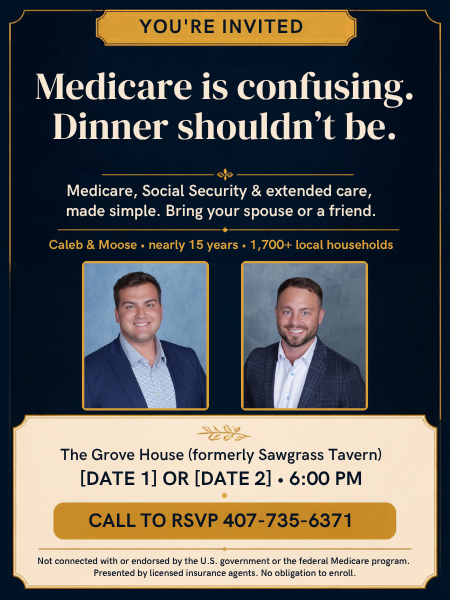
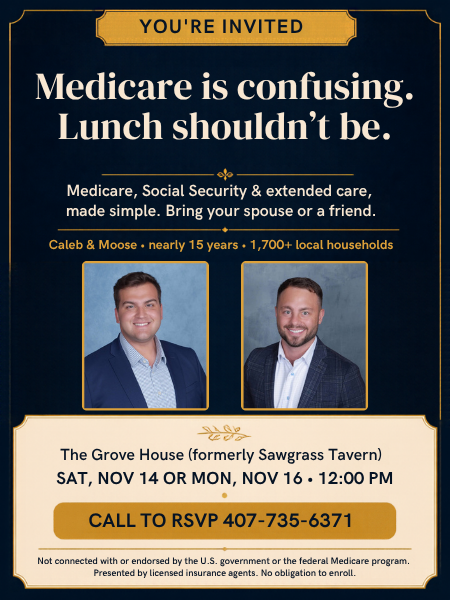
Switch Grove House to Nov 14/16 lunch: ads, ad plan, follow-up with real slots
Claude-Session: https://claude.ai/code/session_0165mYstgSZ8ZegHVh1S9guG

Changed region(s): [[0.1244, 0.18, 0.8711, 0.24], [0.1244, 0.78, 0.8711, 0.81]]

diff --git a/seminars/grove-house/meta-ads.md b/seminars/grove-house/meta-ads.md
@@ -1,8 +1,8 @@
 # Grove House: Meta ad campaign (test run)
 
-**Workshop:** Medicare, Social Security, & Extended Care Workshop. Free dinner for you + a guest.
+**Workshop:** Medicare, Social Security, & Extended Care Workshop. Free lunch for you + a guest.
 **Venue:** The Grove House (formerly Sawgrass Tavern), 810 Marilee Pl, The Villages, FL 32163
-**Dates:** `[DATE 1]` at 6:00 PM or `[DATE 2]` at 6:00 PM (TBD)
+**Dates:** Sat, Nov 14 or Mon, Nov 16, 2026 · 12:00 PM lunch
 **RSVP:** Call 407-735-6371
 
 ---
@@ -14,54 +14,54 @@
 3. **Ad set A: Calls.** Conversion location **Calls**, number 407-735-6371.
    - Location: **15 miles around 810 Marilee Pl** (covers The Villages, Lady Lake, Fruitland Park, Wildwood, Oxford, Summerfield and most of Leesburg). That 55+ footprint is your age filter, since Meta locks age to 18–65+ for this category.
    - Audience: broad / Advantage+. Placements: Advantage+.
-   - Budget: **$30/day**, start 12 days before `[DATE 1]`, end 3 PM on `[DATE 2]`. Bump to **$40/day** for the last 4 days.
+   - Budget: **$30/day** Tue 11/3 – Tue 11/10, then **$40/day** Wed 11/11 – Sun 11/15 for the final push. End **9 AM Mon 11/16**.
 4. **Ad set B (optional test): Instant form.** Same location and budget split ($15/$15 with A).
-   - Form fields: First name, Phone. Custom question: *"Which night works best?"* → `[DATE 1]` / `[DATE 2]`. (Age questions aren't allowed in this category.)
+   - Form fields: First name, Phone. Custom question: *"Which day works best?"* → Sat, Nov 14 / Mon, Nov 16. (Age questions aren't allowed in this category.)
    - Thank-you screen: "You're on the list! We'll text to confirm. Questions? Call 407-735-6371."
 5. Add the two image ads below (and the video once it exists) to each ad set. Name them `grovehouse_<angle>_<format>`.
-6. **Planned spend:** ~$390 over 12 days (≈ half a postcard drop).
+6. **Planned spend:** ~$440 over 13 days (≈ a postcard drop). **Launch: Tue, Nov 3** (page must be live and linked by Mon, Nov 2).
 
 ---
 
-## Ad 1: "Medicare is confusing. Dinner shouldn't be."  ·  `grovehouse_confusing_image`
+## Ad 1: "Medicare is confusing. Lunch shouldn't be."  ·  `grovehouse_confusing_image`
 
 Canva: [Medicare is confusing ad](https://www.canva.com/d/RqKl9wIq5lYaUCs) · preview: `ad-confusing-preview.png`
 
 **Primary text**
-> Medicare is confusing. Dinner shouldn't be. 🍽
+> Medicare is confusing. Lunch shouldn't be. 🍽
 >
-> Join Caleb & Moose for a relaxed evening at The Grove House. Over dinner we'll make Medicare, Social Security and extended care simple: when to sign up, how the options really differ, and what to watch out for. Plain English, no pressure.
+> Join Caleb & Moose for a relaxed lunch at The Grove House. Over lunch we'll make Medicare, Social Security and extended care simple: when to sign up, how the options really differ, and what to watch out for. Plain English, no pressure.
 >
-> 🍽 Complimentary dinner for you + a guest
-> 🕕 [DATE 1] or [DATE 2], 6:00 PM
+> 🍽 Complimentary lunch for you + a guest
+> 🕛 Sat, Nov 14 or Mon, Nov 16 · 12:00 PM
 > 📞 Seating is limited. Call 407-735-6371 to RSVP
 >
 > Not connected with or endorsed by the U.S. government or the federal Medicare program. Presented by licensed insurance agents. No obligation to enroll.
 
-**Headline:** Medicare, Made Simple Over Dinner
-**Description:** The Grove House · 6 PM
+**Headline:** Medicare, Made Simple Over Lunch
+**Description:** Nov 14 or 16 · Noon
 **CTA:** Call Now (ad set A) / Sign Up (ad set B)
 
 ---
 
-## Ad 2: "Dinner's on us."  ·  `grovehouse_dinner_image`
+## Ad 2: "Lunch is on us."  ·  `grovehouse_lunch_image`
 
-Canva: [Dinner's on us ad](https://www.canva.com/d/xr3HqOG3QmUZWY9) · preview: `ad-dinner-preview.png`
+Canva: [Lunch is on us ad](https://www.canva.com/d/xr3HqOG3QmUZWY9) · preview: `ad-lunch-preview.png`
 
 **Primary text**
-> Dinner's on us. 🍽
+> Lunch is on us. 🍽
 >
-> We're Caleb & Moose, your local licensed agents (nearly 15 years, 1,700+ households in our community). A couple of times a season we host a relaxed evening at The Grove House to make Medicare, Social Security and extended care simple.
+> We're Caleb & Moose, your local licensed agents (nearly 15 years, 1,700+ households in our community). A couple of times a season we host a relaxed lunch at The Grove House to make Medicare, Social Security and extended care simple.
 >
 > Good food, honest answers, zero obligation. Bring your spouse or a friend.
 >
-> 🕕 [DATE 1] or [DATE 2], 6:00 PM
+> 🕛 Sat, Nov 14 or Mon, Nov 16 · 12:00 PM
 > 📞 Seats go fast. Call 407-735-6371
 >
 > Not connected with or endorsed by the U.S. government or the federal Medicare program. Presented by licensed insurance agents. No obligation to enroll.
 
-**Headline:** Free Dinner + Medicare Made Simple
-**Description:** The Grove House · 6 PM
+**Headline:** Free Lunch + Medicare Made Simple
+**Description:** Nov 14 or 16 · Noon
 **CTA:** Call Now / Sign Up
 
 The two images share one layout and differ only in the headline, so the results show which hook works better.
@@ -70,7 +70,7 @@ The two images share one layout and differ only in the headline, so the results 
 
 ## Creative briefs
 
-**Images (4:5 / 1080×1350):** both built in Canva with Caleb & Moose's headshots, venue, `[DATE 1]` / `[DATE 2]` · 6 PM and "CALL TO RSVP 407-735-6371". Swap the dates in Canva before launch.
+**Images (4:5 / 1080×1350):** both built in Canva with Caleb & Moose's headshots, venue, "Sat, Nov 14 or Mon, Nov 16 · 12:00 PM" and "CALL TO RSVP 407-735-6371". For the next seminar, copy and edit the date line.
 
 Dropped on 2026-10-26: the "sign-up timeline" ad (made it look fine to sign up late) and the "Advantage vs. Supplement" comparison (too much to take in, not enough of a hook). The designs are still in the Canva folder.
 
@@ -79,11 +79,11 @@ Dropped on 2026-10-26: the "sign-up timeline" ad (made it look fine to sign up l
 Script:
 > **Caleb:** "Hi, I'm Caleb, and this is Moose."
 > **Moose:** "Medicare doesn't have to be confusing."
-> **Caleb:** "Join us for a free dinner workshop at The Grove House. We'll cover when to sign up, Advantage versus Supplement, and Social Security timing."
-> **Moose:** "Dinner's on us, so bring your spouse or a friend."
+> **Caleb:** "Join us for a free lunch workshop at The Grove House. We'll cover when to sign up, Advantage versus Supplement, and Social Security timing."
+> **Moose:** "Lunch is on us, so bring your spouse or a friend."
 > **Both:** "Call 407-735-6371 to save your seats. See you there!"
 
-On-screen text to add in editing: "FREE DINNER WORKSHOP" (first 3s), venue + `[DATE 1]` / `[DATE 2]` · 6 PM (middle), "CALL 407-735-6371" (last 5s), disclaimer (small, last 3s).
+On-screen text to add in editing: "FREE LUNCH WORKSHOP" (first 3s), venue + "Sat 11/14 or Mon 11/16 · Noon" (middle), "CALL 407-735-6371" (last 5s), disclaimer (small, last 3s).
 
 Filming checklist:
 - [ ] Phone held **vertical**, at eye level (stack books or use a $15 tripod)
@@ -105,5 +105,5 @@ October 2026 Grove House postcards (actuals, also in the [Seminar Tracker](https
 - $693.70 for 1,008 cards → 9 RSVPs → 8 attended → 7 appointments.
 - **$77 per RSVP, $99 per appointment** (before the meal). That's the bar Meta has to beat.
 - The room converts: 87.5% of attendees booked. The constraint is getting more people in the door, which is what Meta is for.
-- On a ~$390 budget, Meta beats postcards at **6+ RSVPs**. Check on day 4: on pace for that, keep going; on pace for under 3, swap the weakest angle.
+- On the ~$440 budget, Meta beats postcards at **6+ RSVPs**. Check on day 4: on pace for that, keep going; on pace for under 3, swap the weakest angle.
 - Best test: run Meta **alongside** the next postcard drop and ask every caller "How did you hear about us?" (it's in the RSVP script).

diff --git a/seminars/grove-house/followup.md b/seminars/grove-house/followup.md
@@ -1,66 +1,76 @@
-# Grove House: Follow-up (test run)
+# Grove House lunch: Follow-up
+
+**Workshop:** Sat, Nov 14 or Mon, Nov 16, 2026 · 12:00 PM lunch · The Grove House, 810 Marilee Pl, The Villages (formerly Sawgrass Tavern) · lunch for you + a guest
 
 **Timeline**
 | When | Touch | Channel |
 |---|---|---|
 | On RSVP call | Script below + "how did you hear about us?" | Phone |
 | Right after call | Confirmation | Text |
-| T-3 days | Reminder | Text |
-| T-0 morning | "Saving your seats tonight" | Text |
-| T+1 | Attended → book a review / No-show → re-invite | Text (+ email draft if available) |
-| T+7 | Nudge to attendees who haven't booked | Text |
+| Wed 11/11 (Sat group) · Fri 11/13 (Mon group) | 3-day reminder | Text |
+| Morning of (by 9 AM) | "Saving your seats at noon" | Text |
+| Mon 11/16 (Sat group) · Tue 11/17 (Mon group) | Attended → book a review / No-show → re-invite | Text (+ email draft if available) |
+| Fri 11/20 – Mon 11/23 | Nudge to attendees who haven't booked | Text |
+
+Consultation slots below were open on Caleb's Google Calendar on 2026-10-26. Re-check before sending; Moose's calendar isn't connected. Thanksgiving is Thu 11/26, so book reviews before then.
 
 ---
 
 ## 1. RSVP call script (Google Voice 407-735-6371)
 
-> "Hi, thanks for calling about the dinner workshop! This is Caleb [or Moose]. Who do I have the pleasure of speaking with?
+> "Hi, thanks for calling about the lunch workshop! This is Caleb [or Moose]. Who do I have the pleasure of speaking with?
 >
-> Great, [Name]. We've got two nights at The Grove House: [DATE 1] or [DATE 2], both at 6. Which works better?
+> Great, [Name]. We've got two lunches at The Grove House: Saturday, November 14th or Monday, November 16th, both at noon. Which works better?
 >
-> Will anyone be joining you? *(dinner covers you + one guest)*
+> Will anyone be joining you? *(lunch covers you + one guest)*
 >
 > Any dietary needs we should know about?
 >
-> Quick one so we tailor the night: are you coming up on 65, or already on Medicare?
+> Quick one so we tailor the afternoon: are you coming up on 65, or already on Medicare?
 >
 > And how did you hear about us: the postcard, Facebook, or a friend?
 >
-> Is this the best number to text you a reminder? Perfect. You're all set for [night] at 6. We'll save your seats. See you there!"
+> Is this the best number to text you a reminder? Perfect. You're all set for [Saturday / Monday] at noon. We'll save your seats. See you there!"
 
-Log each call: name, night, # guests, T65 vs. on Medicare, **source (postcard / Facebook / friend)**, phone.
+Log each call: name, day, # guests, T65 vs. on Medicare, **source (postcard / Facebook / friend)**, phone.
 
 ---
 
 ## 2. Confirmation text (right after the call)
-> Hi [First]! You're confirmed for our free dinner workshop at The Grove House, [DAY DATE] at 6 PM (810 Marilee Pl, formerly Sawgrass Tavern). Reply C to confirm or call if plans change. – Caleb & Moose
+> Hi [First]! You're confirmed for our free lunch workshop at The Grove House, [Sat, Nov 14 / Mon, Nov 16] at 12:00 PM (810 Marilee Pl, formerly Sawgrass Tavern). Reply C to confirm or call if plans change. – Caleb & Moose
 
 ## 3. Reminder texts
-**T-3:**
-> Hi [First], looking forward to seeing you [DAY] at 6 at The Grove House! Bring any Medicare or Social Security questions. Dinner's on us. – Caleb & Moose
+**3 days before (Wed 11/11 for Saturday, Fri 11/13 for Monday):**
+> Hi [First], looking forward to seeing you [Saturday / Monday] at noon at The Grove House! Bring any Medicare or Social Security questions. Lunch is on us. – Caleb & Moose
 
-**T-0 morning:**
-> Good morning [First]! We're saving your seats tonight at 6 at The Grove House. See you soon! – Caleb & Moose
+**Morning of (by 9 AM):**
+> Good morning [First]! We're saving your seats today at noon at The Grove House. See you soon! – Caleb & Moose
 
-## 4. T+1: Attended
-> Hi [First], thank you for joining us last night! Remember: your Medicare window opens 3 months before your 65th-birthday month. Want a free 30-min personal review? I have [Tue 10 AM] or [Thu 2 PM]. Which works? – Caleb
+## 4. Day after: Attended
+**Saturday group (send Mon 11/16):**
+> Hi [First], thank you for joining us for lunch Saturday! Remember: your Medicare window opens 3 months before your 65th-birthday month. Want a free 30-min personal review? I have Tue 11/17 at 10 AM or Wed 11/18 at 2 PM. Which works? – Caleb
 
-## 5. T+1: No-show
-> Hi [First], we missed you last night. Hope all's well! No worries at all. Want to grab a seat at our next dinner, or just sit down one-on-one for 30 min? Happy to do either. – Caleb & Moose
+**Monday group (send Tue 11/17):**
+> Hi [First], thank you for joining us for lunch yesterday! Remember: your Medicare window opens 3 months before your 65th-birthday month. Want a free 30-min personal review? I have Thu 11/19 at 10 AM or Fri 11/20 at 2 PM. Which works? – Caleb
 
-## 6. T+7: Nudge (attended, not booked)
-> Hi [First], Caleb here. Following up from the Grove House dinner. Most folks find a quick personal review answers the "which plan fits me" question in 30 min. I have [DAY TIME] open. Want it?
+## 5. Day after: No-show
+> Hi [First], we missed you at lunch. Hope all's well! No worries at all. Want to grab a seat at our next workshop, or just sit down one-on-one for 30 min? Happy to do either. – Caleb & Moose
+
+## 6. Nudge (attended, not booked; Fri 11/20 – Mon 11/23)
+> Hi [First], Caleb here. Following up from the Grove House lunch. Most folks find a quick personal review answers the "which plan fits me" question in 30 min. I have Mon 11/23 at 10 AM or Tue 11/24 at 2 PM open. Want one?
+
+Spare open slots if those fill: Tue 11/17 2 PM · Wed 11/18 10 AM · Thu 11/19 2 PM · Fri 11/20 10 AM · Mon 11/23 2 PM.
 
 ---
 
 ## Optional email version (only if they gave an email; Gmail draft, never sent)
 
 **Subject:** Thanks for joining us at The Grove House
-**Alt subjects:** Your Medicare roadmap, next step · Quick follow-up from dinner
+**Alt subjects:** Your Medicare roadmap, next step · Quick follow-up from lunch
 
 > Hi [First],
 >
-> Thank you for spending the evening with us at The Grove House. We hope dinner was as good as the questions!
+> Thank you for spending your afternoon with us at The Grove House. We hope lunch was as good as the questions!
 >
 > One thing worth remembering: your Medicare sign-up window opens 3 months before the month you turn 65, and missing it can mean penalties that last for life.
 >

diff --git a/CLAUDE.md b/CLAUDE.md
@@ -10,7 +10,7 @@ Before executing any request, play it back: what you plan to do, ideas to make i
 - Caleb: married to Emerson, 3 sons, from Franklin TN, former PGA Head Golf Professional. Moose: married to Dresha, 3 sons, born in Kosovo, raised in West Michigan, licensed investment advisor & fiduciary.
 
 ## The offer
-**Free dinner workshop: "Medicare, Social Security, & Extended Care Workshop."** Complimentary dinner for you + a guest. Goal of every workshop: **book personal consultations (sales appointments).**
+**Free lunch or dinner workshop: "Medicare, Social Security, & Extended Care Workshop."** Complimentary meal for you + a guest. Always ask which meal and time; it changes every headline. Goal of every workshop: **book personal consultations (sales appointments).**
 
 Agenda (from the deck `Caleb-Moose_Seminar_2027` in Google Drive):
 1. Medicare made simple: Parts A, B, C, D and exactly when to sign up
@@ -19,7 +19,7 @@ Agenda (from the deck `Caleb-Moose_Seminar_2027` in Google Drive):
 4. Extended care: protecting savings, home, and spouse
 
 ## Audience
-- Primary: **turning 65 soon (T65)**, Central Florida, especially The Villages. Couples are common (dinner is for "you + a guest").
+- Primary: **turning 65 soon (T65)**, Central Florida, especially The Villages. Couples are common (the meal is for "you + a guest").
 - Secondary: already on Medicare and re-thinking coverage; Social Security filers 62–70.
 - Their worries: missing the sign-up window and lifetime penalties, Advantage networks/pre-approvals, surprise costs, long-term care draining savings, irreversible Social Security decisions.
 
@@ -30,7 +30,7 @@ Agenda (from the deck `Caleb-Moose_Seminar_2027` in Google Drive):
 - Never: fear-mongering, "FREE!!!" spam energy, fake urgency, guarantees, "best plan" claims.
 
 ## Venues & logistics
-- **The Grove House**, 810 Marilee Pl, The Villages, FL 32163 (formerly Sawgrass Tavern). Dinner included. Usual format: two nights, 6:00 PM (e.g. Tue + Fri, or Sat + Mon).
+- **The Grove House**, 810 Marilee Pl, The Villages, FL 32163 (formerly Sawgrass Tavern). Meal included. Formats used: two dinners at 6:00 PM (e.g. Tue + Fri) or two lunches at 12:00 PM (Nov 2026: Sat 11/14 + Mon 11/16).
 - Past venues: Sawgrass Tavern, Giordano's, American Social, Harvest, Tampa.
 - **RSVP: call 407-735-6371** (Google Voice). Seating is limited; "RSVP early to save your seats."
 - Direct mail: 6x9 postcards via Panther Printing (Chad), ~1,000 pieces, ~$600–$780 per drop, plus a "Last Chance" follow-up card.

diff --git a/.claude/skills/meta-seminar-ad/SKILL.md b/.claude/skills/meta-seminar-ad/SKILL.md
@@ -1,6 +1,6 @@
 ---
 name: meta-seminar-ad
-description: Write a ready-to-load Meta (Facebook/Instagram) ad campaign that fills a Caleb & Moose dinner workshop. Use when Caleb says "make seminar ads", "Meta ads for [venue]", "Facebook ads for the workshop", or gives new seminar dates/venue.
+description: Write a ready-to-load Meta (Facebook/Instagram) ad campaign that fills a Caleb & Moose lunch or dinner workshop. Use when Caleb says "make seminar ads", "Meta ads for [venue]", "Facebook ads for the workshop", or gives new seminar dates/venue.
 ---
 
 # Meta seminar ad
@@ -27,13 +27,13 @@ Ask only for what's missing, all at once:
 Two image ads and the Caleb & Moose phone video. More than that splits a ~$400 budget too thin for Meta to learn. For each ad give: **primary text** (≤125 chars before "See more", full version ≤500), **headline** (≤40 chars), **description** (≤30 chars), **CTA button** (Call Now / Sign Up), and the disclaimer at the end of primary text.
 
 Default ads (current winners to beat; swap if Caleb asks):
-1. **Hook**: "Medicare is confusing. Dinner shouldn't be."
-2. **Trust**: "Dinner's on us." with Caleb & Moose front and center.
+1. **Hook**: "Medicare is confusing. [Lunch/Dinner] shouldn't be."
+2. **Trust**: "[Lunch is / Dinner's] on us." with Caleb & Moose front and center.
 3. **Video**: script + filming checklist in `seminars/grove-house/meta-ads.md`.
 
 What Caleb has rejected (don't bring back):
 - Timelines or rules that make it look fine to act late (e.g. "3 months after your birthday").
-- Teaching in the ad (Advantage vs. Supplement comparisons). The ad makes people curious; the dinner gives the answers.
+- Teaching in the ad (Advantage vs. Supplement comparisons). The ad makes people curious; the workshop gives the answers.
 
 Check every line against Meta's personal-attributes policy: no "you're turning 65", "your Medicare", "seniors like you". Talk about the topic, not the reader's traits.
 

diff --git a/MEMORY.md b/MEMORY.md
@@ -2,6 +2,10 @@
 
 Facts, results and decisions that should carry over between sessions. Newest first.
 
+## 2026-10-26 — Next seminar
+- **Grove House lunch: Sat 11/14 and Mon 11/16, 12:00 PM**, you + a guest. Ads switched to "Lunch is on us." / "Medicare is confusing. Lunch shouldn't be." Meta launch planned Tue 11/3 (~$440).
+- Facebook page "Caleb & Moose: Medicare & Retirement Workshops" being created by Caleb; profile picture in `brand/caleb-moose-profile.png`.
+
 ## 2026-10-26 — Creative decisions
 - Ads feature Caleb & Moose's headshots; Caleb's name without "CLTC".
 - Branch manager approved a separate "Caleb & Moose" Facebook page for seminar ads.
